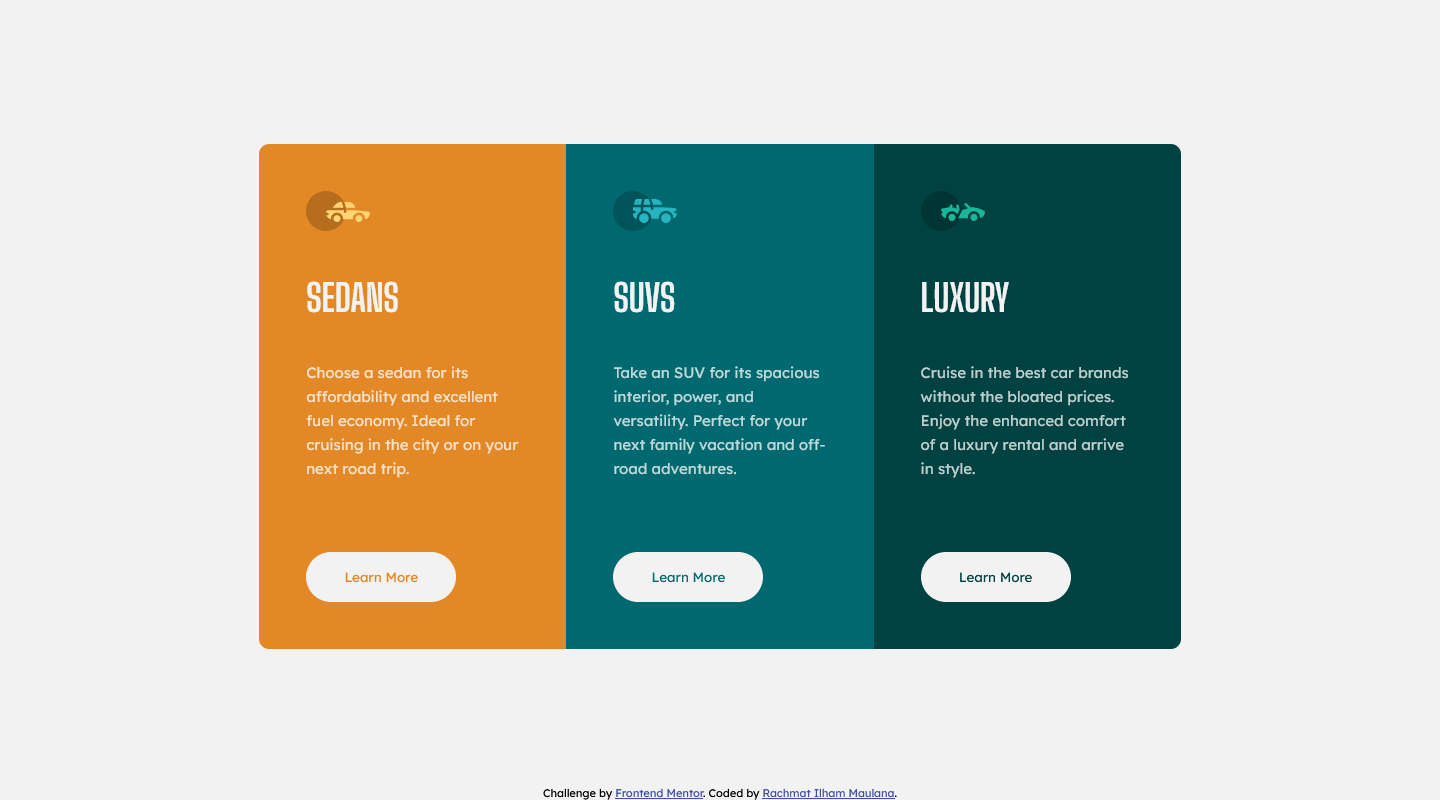
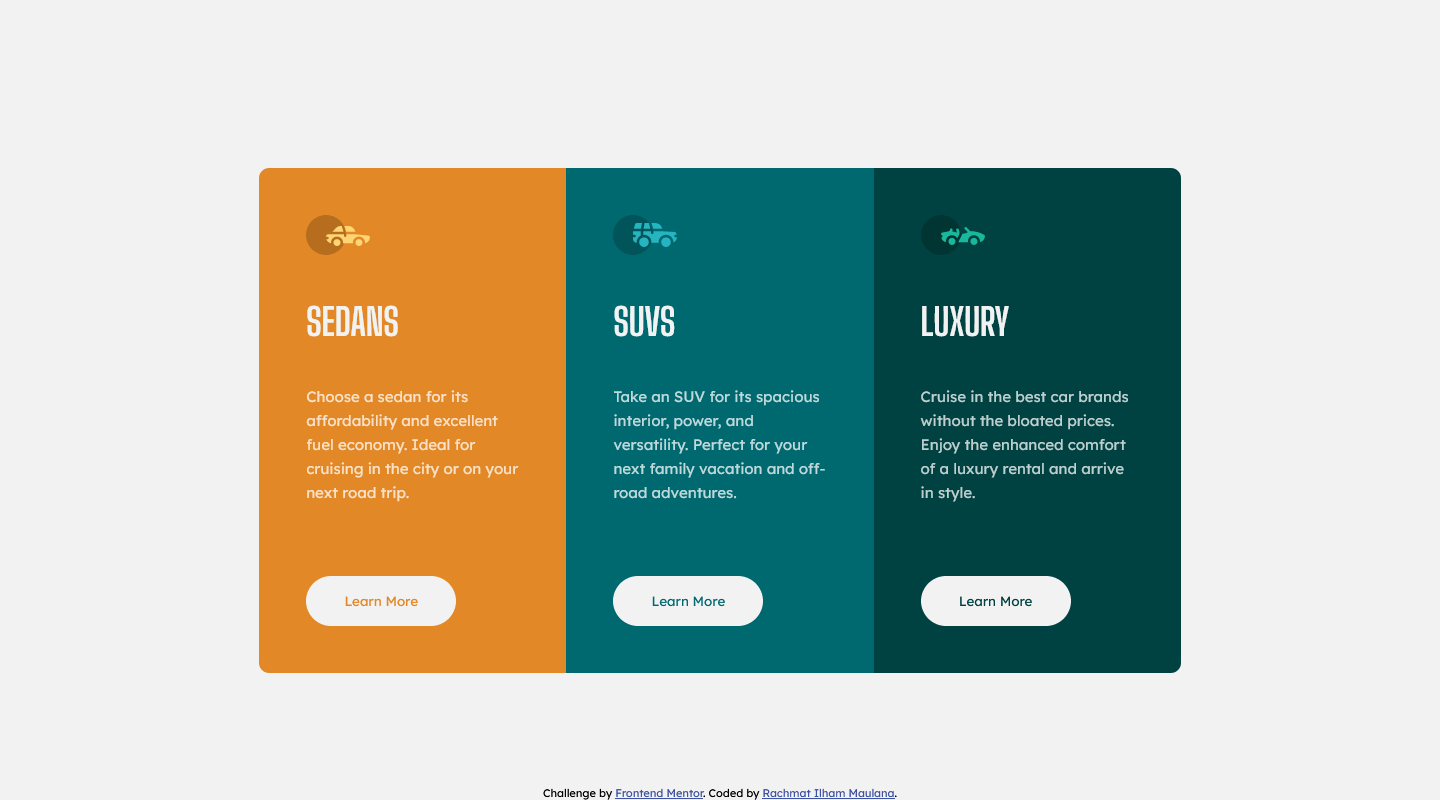
updating solution

diff --git a/index.html b/index.html
@@ -1,47 +1,60 @@
 <!DOCTYPE html>
 <html lang="en">
   <head>
-    <meta charset="UTF-8">
-    <meta name="viewport" content="width=device-width, initial-scale=1.0"> <!-- displays site properly based on user's device -->
+    <meta charset="UTF-8" />
+    <meta name="viewport" content="width=device-width, initial-scale=1.0" />
+    <!-- displays site properly based on user's device -->
 
-    <link rel="icon" type="image/png" sizes="32x32" href="./images/favicon-32x32.png">
-    
+    <link
+      rel="icon"
+      type="image/png"
+      sizes="32x32"
+      href="./images/favicon-32x32.png"
+    />
+
     <title>Frontend Mentor | 3-column preview card component</title>
 
-    <!-- Feel free to remove these styles or customise in your own stylesheet 👍 -->
-    <style>
-      .attribution { font-size: 11px; text-align: center; }
-      .attribution a { color: hsl(228, 45%, 44%); }
-    </style>
-    <link rel="stylesheet" href="style.css">
-    <link href="https://fonts.googleapis.com/css2?family=Big+Shoulders+Display:wght@700&family=Lexend+Deca&display=swap" rel="stylesheet">
+    <link rel="stylesheet" href="style.css" />
+    <link
+      href="https://fonts.googleapis.com/css2?family=Big+Shoulders+Display:wght@700&family=Lexend+Deca&display=swap"
+      rel="stylesheet"
+    />
   </head>
 
   <body>
     <main>
       <section class="a">
         <div class="content">
-          <div class="icon"><img src="images/icon-sedans.svg" alt=""></div>
-          <h2>Sedans</h2>
-          <p>Choose a sedan for its affordability and excellent fuel economy. Ideal for cruising in the city or on your next road trip.</p>
+          <div class="icon"><img src="images/icon-sedans.svg" alt="" /></div>
+          <h1>Sedans</h1>
+          <p>
+            Choose a sedan for its affordability and excellent fuel economy.
+            Ideal for cruising in the city or on your next road trip.
+          </p>
         </div>
         <button class="a">Learn More</button>
       </section>
 
       <section class="b">
         <div class="content">
-          <div class="icon"><img src="images/icon-suvs.svg" alt=""></div>
-          <h2>SUVs</h2>
-          <p>Take an SUV for its spacious interior, power, and versatility. Perfect for your next family vacation and off-road adventures.</p>
+          <div class="icon"><img src="images/icon-suvs.svg" alt="" /></div>
+          <h1>SUVs</h1>
+          <p>
+            Take an SUV for its spacious interior, power, and versatility.
+            Perfect for your next family vacation and off-road adventures.
+          </p>
         </div>
         <button class="b">Learn More</button>
       </section>
 
       <section class="c">
         <div class="content">
-          <div class="icon"><img src="images/icon-luxury.svg" alt=""></div>
-          <h2>Luxury</h2>
-          <p>Cruise in the best car brands without the bloated prices. Enjoy the enhanced comfort of a luxury rental and arrive in style.</p>
+          <div class="icon"><img src="images/icon-luxury.svg" alt="" /></div>
+          <h1>Luxury</h1>
+          <p>
+            Cruise in the best car brands without the bloated prices. Enjoy the
+            enhanced comfort of a luxury rental and arrive in style.
+          </p>
         </div>
         <button class="c">Learn More</button>
       </section>
@@ -49,8 +62,11 @@
 
     <footer>
       <div class="attribution">
-        Challenge by <a href="https://www.frontendmentor.io?ref=challenge" target="_blank">Frontend Mentor</a>. 
-        Coded by <a href="https://github.com/rachmatilham">Rachmat Ilham Maulana</a>.
+        Challenge by
+        <a href="https://www.frontendmentor.io?ref=challenge" target="_blank"
+          >Frontend Mentor</a
+        >. Coded by
+        <a href="https://github.com/rachmatilham">Rachmat Ilham Maulana</a>.
       </div>
     </footer>
   </body>

diff --git a/style.css b/style.css
@@ -42,7 +42,7 @@ main section.c {
   background-color: var(--very-dark-cyan);
 }
 
-main h2 {
+main h1 {
   color: var(--very-light-gray);
   font-family: "Big Shoulders Display", cursive;
   font-size: 2.2em;
@@ -80,13 +80,21 @@ main button.c {
   color: var(--very-dark-cyan);
 }
 
+.attribution {
+  font-size: 11px;
+  text-align: center;
+}
+.attribution a {
+  color: hsl(228, 45%, 44%);
+}
+
 /* RESPONSIVE DESIIGN */
 
 @media (min-width: 992px) {
   main {
     display: flex;
     flex-direction: row;
-    margin: 18vh auto 0;
+    margin: 21vh auto 0;
     max-width: 64vw;
   }
 
@@ -99,7 +107,7 @@ main button.c {
     justify-content: space-between;
   }
 
-  main h2 {
+  main h1 {
     font-size: 2.5em;
   }
 

diff --git a/README.md b/README.md
@@ -51,5 +51,5 @@ Every container's corner should be round even after the page is zoomed out.
 
 ## Author
 
-- Website - [Github](https://github.com/rachmatilham/)
+- Github - [Rachmat Ilham Maulana](https://github.com/rachmatilham/)
 - Frontend Mentor - [@rachmatilham](https://www.frontendmentor.io/profile/rachmatilham)
